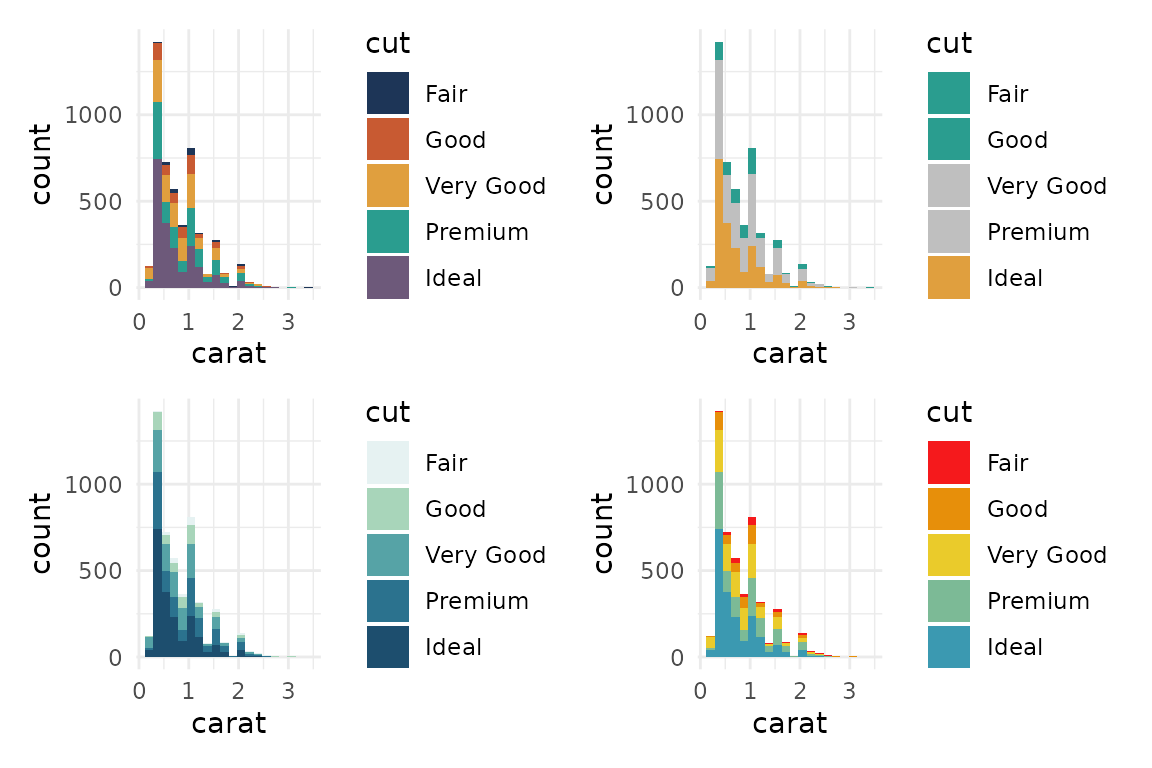
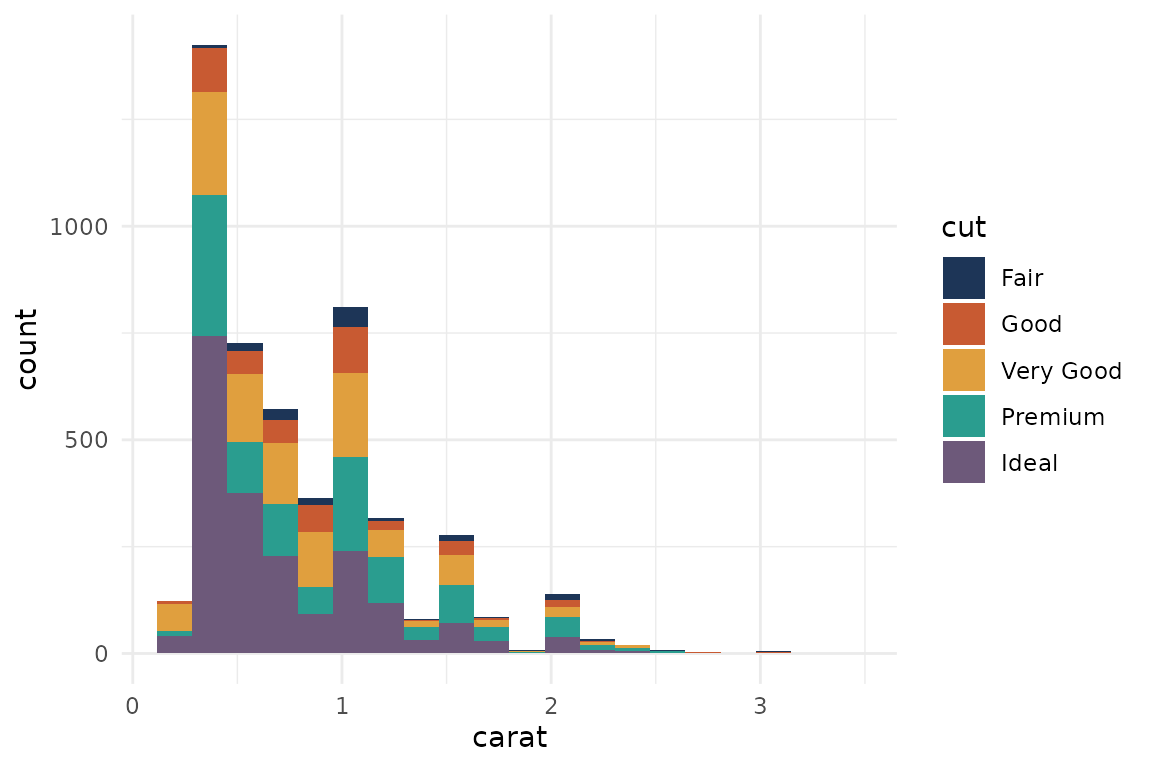
Deploying to gh-pages from @ ryo-asashi/colortheme@9a74aecfcd601a7d63860a1a3ffccc3117ac754f 🚀

diff --git a/articles/colortheme.html b/articles/colortheme.html
@@ -615,41 +615,52 @@ functions. These scales integrate your themes directly into the plot’s
 <code>color</code> and <code>fill</code> aesthetics.</p>
 <div class="sourceCode" id="cb23"><pre class="downlit sourceCode r">
 <code class="sourceCode R"><span><span class="kw"><a href="https://rdrr.io/r/base/library.html" class="external-link">library</a></span><span class="op">(</span><span class="va"><a href="https://ggplot2.tidyverse.org" class="external-link">ggplot2</a></span><span class="op">)</span></span>
-<span><span class="kw"><a href="https://rdrr.io/r/base/library.html" class="external-link">library</a></span><span class="op">(</span><span class="va"><a href="https://patchwork.data-imaginist.com" class="external-link">patchwork</a></span><span class="op">)</span></span>
 <span><span class="fu"><a href="https://ggplot2.tidyverse.org/reference/get_theme.html" class="external-link">theme_set</a></span><span class="op">(</span><span class="fu"><a href="https://ggplot2.tidyverse.org/reference/ggtheme.html" class="external-link">theme_minimal</a></span><span class="op">(</span><span class="op">)</span><span class="op">)</span></span>
 <span></span>
 <span><span class="fu"><a href="https://rdrr.io/r/base/Random.html" class="external-link">set.seed</a></span><span class="op">(</span><span class="fl">42</span><span class="op">)</span></span>
 <span><span class="va">dataset</span> <span class="op">&lt;-</span> <span class="va">diamonds</span><span class="op">[</span><span class="fu"><a href="https://rdrr.io/r/base/sample.html" class="external-link">sample</a></span><span class="op">(</span><span class="fu"><a href="https://rdrr.io/r/base/nrow.html" class="external-link">nrow</a></span><span class="op">(</span><span class="va">diamonds</span><span class="op">)</span>, <span class="fl">5000L</span><span class="op">)</span>, <span class="op">]</span></span>
 <span></span>
 <span><span class="va">p</span> <span class="op">&lt;-</span> <span class="fu"><a href="https://ggplot2.tidyverse.org/reference/ggplot.html" class="external-link">ggplot</a></span><span class="op">(</span><span class="va">dataset</span><span class="op">)</span> <span class="op">+</span> <span class="fu"><a href="https://ggplot2.tidyverse.org/reference/geom_point.html" class="external-link">geom_point</a></span><span class="op">(</span><span class="fu"><a href="https://ggplot2.tidyverse.org/reference/aes.html" class="external-link">aes</a></span><span class="op">(</span><span class="va">carat</span>, <span class="va">price</span>, col <span class="op">=</span> <span class="va">color</span><span class="op">)</span><span class="op">)</span></span>
-<span><span class="fu"><a href="https://patchwork.data-imaginist.com/reference/wrap_plots.html" class="external-link">wrap_plots</a></span><span class="op">(</span></span>
-<span>  <span class="va">p</span> <span class="op">+</span> <span class="fu"><a href="../reference/scale_color_theme.html">scale_color_theme</a></span><span class="op">(</span><span class="st">"shiki"</span><span class="op">)</span>,</span>
-<span>  <span class="va">p</span> <span class="op">+</span> <span class="fu"><a href="../reference/scale_color_theme.html">scale_color_theme</a></span><span class="op">(</span><span class="st">"viridisLite/mako"</span>, discrete <span class="op">=</span> <span class="cn">TRUE</span><span class="op">)</span>,</span>
-<span>  <span class="va">p</span> <span class="op">+</span> <span class="fu"><a href="../reference/scale_color_theme.html">scale_color_theme</a></span><span class="op">(</span><span class="st">"tokyo@qual"</span><span class="op">)</span>,</span>
-<span>  <span class="va">p</span> <span class="op">+</span> <span class="fu"><a href="../reference/scale_color_theme.html">scale_color_theme</a></span><span class="op">(</span><span class="st">"highlight?base='#00000000'&amp;which=list(1, 7)"</span><span class="op">)</span></span>
-<span><span class="op">)</span></span></code></pre></div>
+<span><span class="va">p</span> <span class="op">+</span> <span class="fu"><a href="../reference/scale_color_theme.html">scale_color_theme</a></span><span class="op">(</span><span class="st">"shiki"</span><span class="op">)</span></span></code></pre></div>
 <p><img src="colortheme_files/figure-html/unnamed-chunk-18-1.png" class="r-plt" alt="" width="576"></p>
 <div class="sourceCode" id="cb24"><pre class="downlit sourceCode r">
+<code class="sourceCode R"><span><span class="va">p</span> <span class="op">+</span> <span class="fu"><a href="../reference/scale_color_theme.html">scale_color_theme</a></span><span class="op">(</span><span class="st">"viridisLite/mako"</span>, discrete <span class="op">=</span> <span class="cn">TRUE</span><span class="op">)</span></span></code></pre></div>
+<p><img src="colortheme_files/figure-html/unnamed-chunk-18-2.png" class="r-plt" alt="" width="576"></p>
+<div class="sourceCode" id="cb25"><pre class="downlit sourceCode r">
+<code class="sourceCode R"><span><span class="va">p</span> <span class="op">+</span> <span class="fu"><a href="../reference/scale_color_theme.html">scale_color_theme</a></span><span class="op">(</span><span class="st">"tokyo@qual"</span><span class="op">)</span></span></code></pre></div>
+<p><img src="colortheme_files/figure-html/unnamed-chunk-18-3.png" class="r-plt" alt="" width="576"></p>
+<div class="sourceCode" id="cb26"><pre class="downlit sourceCode r">
+<code class="sourceCode R"><span><span class="va">p</span> <span class="op">+</span> <span class="fu"><a href="../reference/scale_color_theme.html">scale_color_theme</a></span><span class="op">(</span><span class="st">"highlight?which=list(1, 6:7);base='00000000'"</span><span class="op">)</span></span></code></pre></div>
+<p><img src="colortheme_files/figure-html/unnamed-chunk-18-4.png" class="r-plt" alt="" width="576"></p>
+<div class="sourceCode" id="cb27"><pre class="downlit sourceCode r">
 <code class="sourceCode R"><span><span class="va">p2</span> <span class="op">&lt;-</span> <span class="fu"><a href="https://ggplot2.tidyverse.org/reference/ggplot.html" class="external-link">ggplot</a></span><span class="op">(</span><span class="va">dataset</span><span class="op">)</span> <span class="op">+</span></span>
 <span>  <span class="fu"><a href="https://ggplot2.tidyverse.org/reference/geom_histogram.html" class="external-link">geom_histogram</a></span><span class="op">(</span><span class="fu"><a href="https://ggplot2.tidyverse.org/reference/aes.html" class="external-link">aes</a></span><span class="op">(</span>x <span class="op">=</span> <span class="va">carat</span>, fill <span class="op">=</span> <span class="va">cut</span><span class="op">)</span>, bins <span class="op">=</span> <span class="fl">20</span><span class="op">)</span></span>
-<span><span class="fu"><a href="https://patchwork.data-imaginist.com/reference/wrap_plots.html" class="external-link">wrap_plots</a></span><span class="op">(</span></span>
-<span>  <span class="va">p2</span> <span class="op">+</span> <span class="fu"><a href="../reference/scale_color_theme.html">scale_fill_theme</a></span><span class="op">(</span><span class="st">"ukiyoe"</span><span class="op">)</span>,</span>
-<span>  <span class="va">p2</span> <span class="op">+</span> <span class="fu"><a href="../reference/scale_color_theme.html">scale_fill_theme</a></span><span class="op">(</span><span class="st">"highlight_r?which=list(1:2, 5)"</span><span class="op">)</span>,</span>
-<span>  <span class="va">p2</span> <span class="op">+</span> <span class="fu"><a href="../reference/scale_color_theme.html">scale_fill_theme</a></span><span class="op">(</span><span class="st">"ai@q"</span><span class="op">)</span>,</span>
-<span>  <span class="va">p2</span> <span class="op">+</span> <span class="fu"><a href="../reference/scale_color_theme.html">scale_fill_theme</a></span><span class="op">(</span><span class="st">"Zissou 1_r@q"</span><span class="op">)</span></span>
-<span><span class="op">)</span></span></code></pre></div>
+<span><span class="va">p2</span> <span class="op">+</span> <span class="fu"><a href="../reference/scale_color_theme.html">scale_fill_theme</a></span><span class="op">(</span><span class="st">"ukiyoe"</span><span class="op">)</span></span></code></pre></div>
 <p><img src="colortheme_files/figure-html/unnamed-chunk-19-1.png" class="r-plt" alt="" width="576"></p>
-<div class="sourceCode" id="cb25"><pre class="downlit sourceCode r">
+<div class="sourceCode" id="cb28"><pre class="downlit sourceCode r">
+<code class="sourceCode R"><span><span class="va">p2</span> <span class="op">+</span> <span class="fu"><a href="../reference/scale_color_theme.html">scale_fill_theme</a></span><span class="op">(</span><span class="st">"highlight_r?which=list(1:2, 5)"</span><span class="op">)</span></span></code></pre></div>
+<p><img src="colortheme_files/figure-html/unnamed-chunk-19-2.png" class="r-plt" alt="" width="576"></p>
+<div class="sourceCode" id="cb29"><pre class="downlit sourceCode r">
+<code class="sourceCode R"><span><span class="va">p2</span> <span class="op">+</span> <span class="fu"><a href="../reference/scale_color_theme.html">scale_fill_theme</a></span><span class="op">(</span><span class="st">"ai@q"</span><span class="op">)</span></span></code></pre></div>
+<p><img src="colortheme_files/figure-html/unnamed-chunk-19-3.png" class="r-plt" alt="" width="576"></p>
+<div class="sourceCode" id="cb30"><pre class="downlit sourceCode r">
+<code class="sourceCode R"><span><span class="va">p2</span> <span class="op">+</span> <span class="fu"><a href="../reference/scale_color_theme.html">scale_fill_theme</a></span><span class="op">(</span><span class="st">"Zissou 1_r@q"</span><span class="op">)</span></span></code></pre></div>
+<p><img src="colortheme_files/figure-html/unnamed-chunk-19-4.png" class="r-plt" alt="" width="576"></p>
+<div class="sourceCode" id="cb31"><pre class="downlit sourceCode r">
 <code class="sourceCode R"><span><span class="co"># Continuous and stepped scales with sequential, diverging, and qualitative themes</span></span>
 <span><span class="va">p3</span> <span class="op">&lt;-</span> <span class="fu"><a href="https://ggplot2.tidyverse.org/reference/ggplot.html" class="external-link">ggplot</a></span><span class="op">(</span><span class="va">faithfuld</span>, <span class="fu"><a href="https://ggplot2.tidyverse.org/reference/aes.html" class="external-link">aes</a></span><span class="op">(</span><span class="va">waiting</span>, <span class="va">eruptions</span>, fill <span class="op">=</span> <span class="va">density</span><span class="op">)</span><span class="op">)</span> <span class="op">+</span></span>
-<span>  <span class="fu"><a href="https://ggplot2.tidyverse.org/reference/geom_tile.html" class="external-link">geom_raster</a></span><span class="op">(</span><span class="op">)</span></span>
-<span><span class="fu"><a href="https://patchwork.data-imaginist.com/reference/wrap_plots.html" class="external-link">wrap_plots</a></span><span class="op">(</span></span>
-<span>  <span class="va">p3</span> <span class="op">+</span> <span class="fu"><a href="../reference/scale_color_theme.html">scale_fill_theme</a></span><span class="op">(</span><span class="st">"ai"</span><span class="op">)</span>,</span>
-<span>  <span class="va">p3</span> <span class="op">+</span> <span class="fu"><a href="../reference/scale_color_theme.html">scale_fill_theme</a></span><span class="op">(</span><span class="st">"Cividis"</span>, middle <span class="op">=</span> <span class="fl">0.02</span><span class="op">)</span>,</span>
-<span>  <span class="va">p3</span> <span class="op">+</span> <span class="fu"><a href="../reference/scale_color_theme.html">scale_fill_theme</a></span><span class="op">(</span><span class="st">"steps"</span>, middle <span class="op">=</span> <span class="fl">0.02</span><span class="op">)</span>,</span>
-<span>  <span class="va">p3</span> <span class="op">+</span> <span class="fu"><a href="../reference/scale_color_theme.html">scale_fill_theme</a></span><span class="op">(</span><span class="st">"magma?ramp.steps=6&amp;alpha=0.8"</span><span class="op">)</span></span>
-<span><span class="op">)</span></span></code></pre></div>
+<span>  <span class="fu"><a href="https://ggplot2.tidyverse.org/reference/geom_tile.html" class="external-link">geom_raster</a></span><span class="op">(</span><span class="op">)</span> <span class="op">+</span> <span class="fu"><a href="https://ggplot2.tidyverse.org/reference/theme.html" class="external-link">theme</a></span><span class="op">(</span>legend.position <span class="op">=</span> <span class="st">"right"</span><span class="op">)</span></span>
+<span><span class="va">p3</span> <span class="op">+</span> <span class="fu"><a href="../reference/scale_color_theme.html">scale_fill_theme</a></span><span class="op">(</span><span class="st">"ai"</span><span class="op">)</span></span></code></pre></div>
 <p><img src="colortheme_files/figure-html/unnamed-chunk-20-1.png" class="r-plt" alt="" width="576"></p>
+<div class="sourceCode" id="cb32"><pre class="downlit sourceCode r">
+<code class="sourceCode R"><span><span class="va">p3</span> <span class="op">+</span> <span class="fu"><a href="../reference/scale_color_theme.html">scale_fill_theme</a></span><span class="op">(</span><span class="st">"Cividis"</span>, middle <span class="op">=</span> <span class="fl">0.02</span><span class="op">)</span></span></code></pre></div>
+<p><img src="colortheme_files/figure-html/unnamed-chunk-20-2.png" class="r-plt" alt="" width="576"></p>
+<div class="sourceCode" id="cb33"><pre class="downlit sourceCode r">
+<code class="sourceCode R"><span><span class="va">p3</span> <span class="op">+</span> <span class="fu"><a href="../reference/scale_color_theme.html">scale_fill_theme</a></span><span class="op">(</span><span class="st">"steps"</span>, middle <span class="op">=</span> <span class="fl">0.02</span><span class="op">)</span></span></code></pre></div>
+<p><img src="colortheme_files/figure-html/unnamed-chunk-20-3.png" class="r-plt" alt="" width="576"></p>
+<div class="sourceCode" id="cb34"><pre class="downlit sourceCode r">
+<code class="sourceCode R"><span><span class="va">p3</span> <span class="op">+</span> <span class="fu"><a href="../reference/scale_color_theme.html">scale_fill_theme</a></span><span class="op">(</span><span class="st">"magma?ramp.steps=6&amp;alpha=0.8"</span><span class="op">)</span></span></code></pre></div>
+<p><img src="colortheme_files/figure-html/unnamed-chunk-20-4.png" class="r-plt" alt="" width="576"></p>
 </div>
 </div>
 <div class="section level2">

diff --git a/articles/colortheme.md b/articles/colortheme.md
@@ -518,51 +518,98 @@ functions. These scales integrate your themes directly into the plot’s
 ``` r
 
 library(ggplot2)
-library(patchwork)
 theme_set(theme_minimal())
 
 set.seed(42)
 dataset <- diamonds[sample(nrow(diamonds), 5000L), ]
 
 p <- ggplot(dataset) + geom_point(aes(carat, price, col = color))
-wrap_plots(
-  p + scale_color_theme("shiki"),
-  p + scale_color_theme("viridisLite/mako", discrete = TRUE),
-  p + scale_color_theme("tokyo@qual"),
-  p + scale_color_theme("highlight?base='#00000000'&which=list(1, 7)")
-)
+p + scale_color_theme("shiki")
 ```
 
 ![](colortheme_files/figure-html/unnamed-chunk-18-1.png)
 
 ``` r
 
+p + scale_color_theme("viridisLite/mako", discrete = TRUE)
+```
+
+![](colortheme_files/figure-html/unnamed-chunk-18-2.png)
+
+``` r
+
+p + scale_color_theme("tokyo@qual")
+```
+
+![](colortheme_files/figure-html/unnamed-chunk-18-3.png)
+
+``` r
+
+p + scale_color_theme("highlight?which=list(1, 6:7);base='00000000'")
+```
+
+![](colortheme_files/figure-html/unnamed-chunk-18-4.png)
+
+``` r
+
 p2 <- ggplot(dataset) +
   geom_histogram(aes(x = carat, fill = cut), bins = 20)
-wrap_plots(
-  p2 + scale_fill_theme("ukiyoe"),
-  p2 + scale_fill_theme("highlight_r?which=list(1:2, 5)"),
-  p2 + scale_fill_theme("ai@q"),
-  p2 + scale_fill_theme("Zissou 1_r@q")
-)
+p2 + scale_fill_theme("ukiyoe")
 ```
 
 ![](colortheme_files/figure-html/unnamed-chunk-19-1.png)
 
 ``` r
 
+p2 + scale_fill_theme("highlight_r?which=list(1:2, 5)")
+```
+
+![](colortheme_files/figure-html/unnamed-chunk-19-2.png)
+
+``` r
+
+p2 + scale_fill_theme("ai@q")
+```
+
+![](colortheme_files/figure-html/unnamed-chunk-19-3.png)
+
+``` r
+
+p2 + scale_fill_theme("Zissou 1_r@q")
+```
+
+![](colortheme_files/figure-html/unnamed-chunk-19-4.png)
+
+``` r
+
 # Continuous and stepped scales with sequential, diverging, and qualitative themes
 p3 <- ggplot(faithfuld, aes(waiting, eruptions, fill = density)) +
-  geom_raster()
-wrap_plots(
-  p3 + scale_fill_theme("ai"),
-  p3 + scale_fill_theme("Cividis", middle = 0.02),
-  p3 + scale_fill_theme("steps", middle = 0.02),
-  p3 + scale_fill_theme("magma?ramp.steps=6&alpha=0.8")
-)
+  geom_raster() + theme(legend.position = "right")
+p3 + scale_fill_theme("ai")
 ```
 
 ![](colortheme_files/figure-html/unnamed-chunk-20-1.png)
+
+``` r
+
+p3 + scale_fill_theme("Cividis", middle = 0.02)
+```
+
+![](colortheme_files/figure-html/unnamed-chunk-20-2.png)
+
+``` r
+
+p3 + scale_fill_theme("steps", middle = 0.02)
+```
+
+![](colortheme_files/figure-html/unnamed-chunk-20-3.png)
+
+``` r
+
+p3 + scale_fill_theme("magma?ramp.steps=6&alpha=0.8")
+```
+
+![](colortheme_files/figure-html/unnamed-chunk-20-4.png)
 
 ## Pre-defined color themes
 
